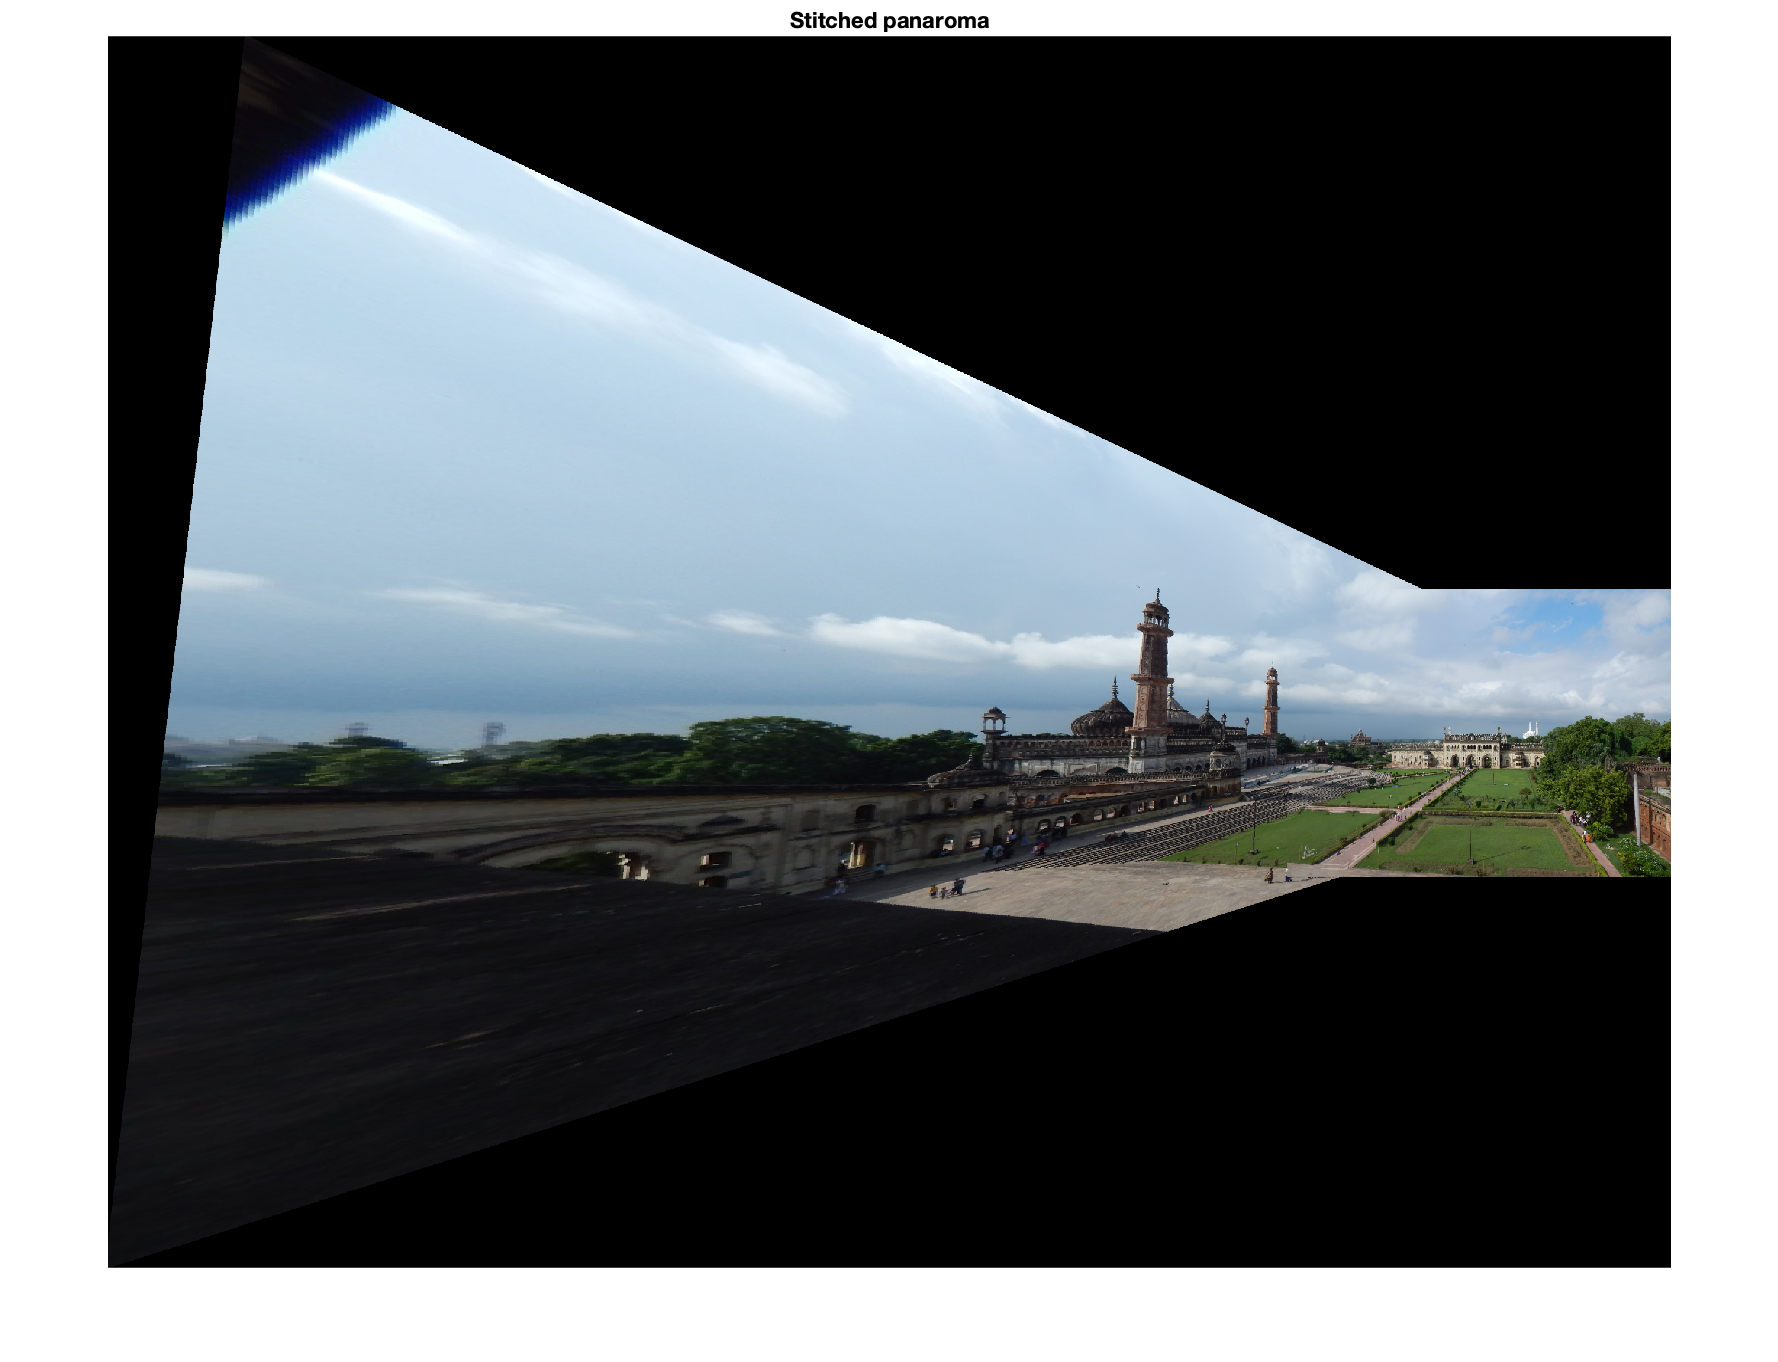
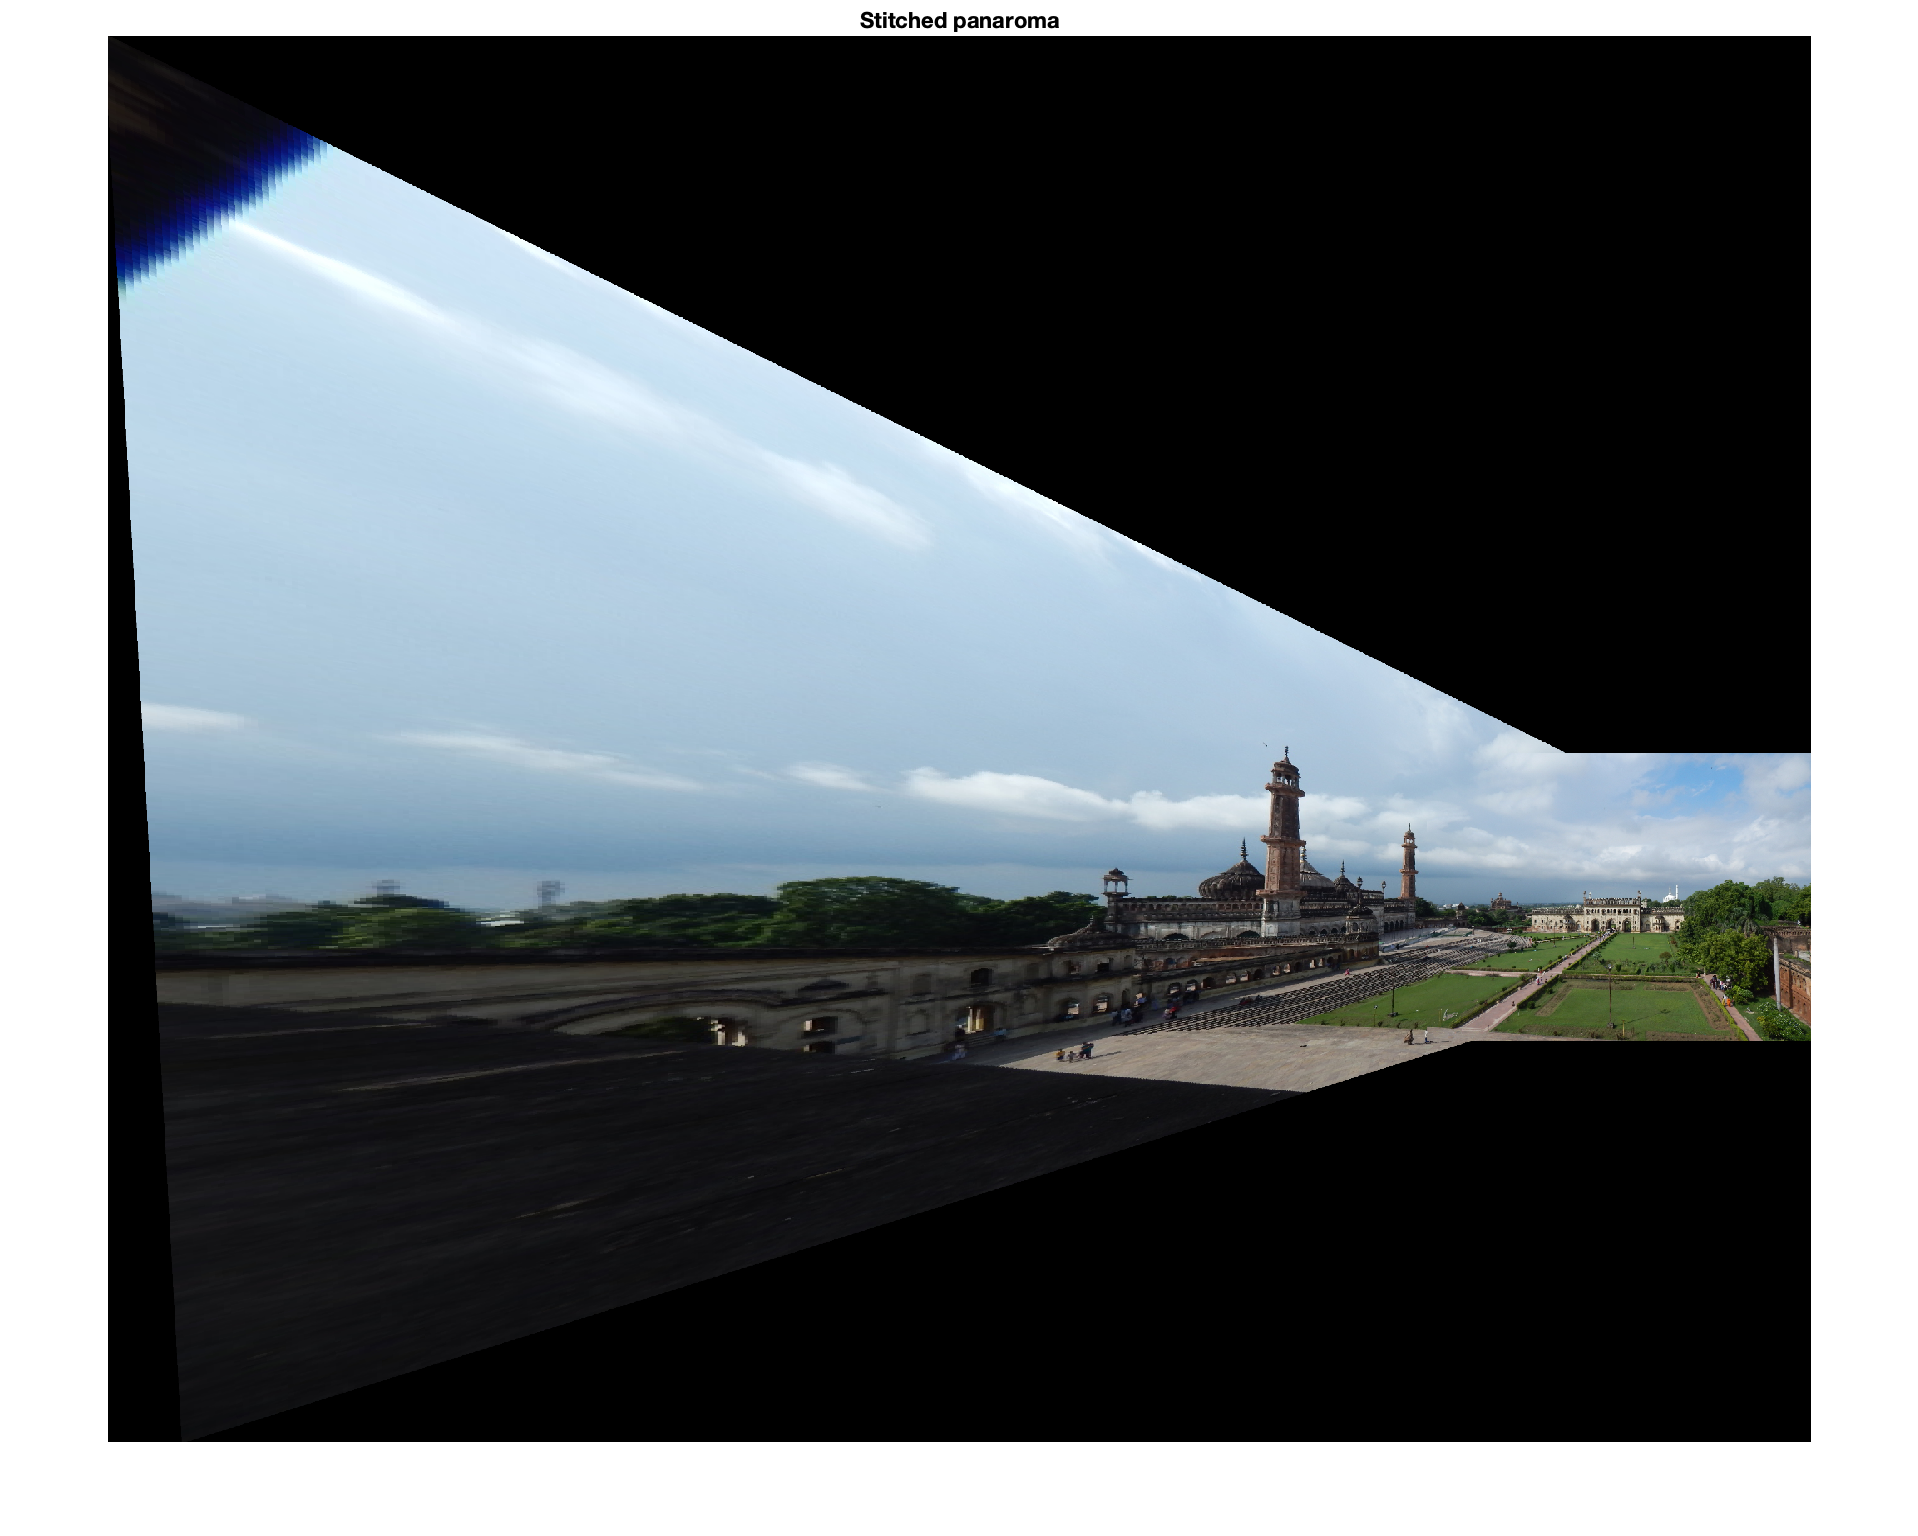
Q4: completed

Changed region(s): [[0.0309, 0.0308, 0.9589, 0.9559], [0.0619, 0.0, 0.928, 0.0308], [0.4021, 0.4317, 0.4331, 0.4626]]

diff --git a/A2/Q4/code/myMainScript.m b/A2/Q4/code/myMainScript.m
@@ -1,8 +1,8 @@
 rng(0);
 
-%% Loading and displaying the images (Monument)
-
-tic;
+%% Monument
+% Loading and displaying the images
+clear;
 base_dir = '../input/monument/';
 files = dir(strcat(base_dir,'*.jpg'));
 n = length(files);
@@ -14,15 +14,15 @@ for i=1:n
 end
 
 % Creating Panaroma
+tic;
 p_im = createPanaroma(im, 2, 0.05);
 toc;
 figure; imshow(p_im);
 title('Stitched panaroma');
+
+%% Hill
+% Loading and displaying the images
 clear;
-
-%% Loading and displaying the images (Hill)
-
-tic;
 base_dir = '../input/hill/';
 files = dir(strcat(base_dir,'*.jpg'));
 n = length(files);
@@ -34,15 +34,15 @@ for i=1:n
 end
 
 % Creating Panaroma
+tic;
 p_im = createPanaroma(im, 2, 0.005);
 toc;
 figure; imshow(p_im);
 title('Stitched panaroma');
+
+%% Ledge
+% Loading and displaying the images
 clear;
-
-%% Loading and displaying the images (Legde)
-
-tic;
 base_dir = '../input/ledge/';
 files = dir(strcat(base_dir,'*.jpg'));
 n = length(files);
@@ -54,15 +54,15 @@ for i=1:n
 end
 
 % Creating Panaroma
+tic;
 p_im = createPanaroma(im, 2, 0.005);
 toc;
 figure; imshow(p_im);
 title('Stitched panaroma');
+
+%% Pier
+% Loading and displaying the images
 clear;
-
-%% Loading and displaying the images (Pier)
-
-tic;
 base_dir = '../input/pier/';
 files = dir(strcat(base_dir,'*.jpg'));
 n = length(files);
@@ -74,8 +74,50 @@ for i=1:n
 end
 
 % Creating Panaroma
+tic;
 p_im = createPanaroma(im, 2, 0.005);
 toc;
 figure; imshow(p_im);
 title('Stitched panaroma');
+
+%% camera_2
+% Loading and displaying the images
 clear;
+base_dir = '../input/camera_2/';
+files = dir(strcat(base_dir,'*.jpg'));
+n = length(files);
+im = cell(1,n);
+for i=1:n
+    ii = imread(strcat(base_dir, files(i).name));
+    im{i} = ii(1:4:end,1:4:end,:); % downsample because images are too big
+    figure; imshow(im{i});
+    title(strcat('Original image -', string(i))); 
+end
+
+% Creating Panaroma
+tic;
+p_im = createPanaroma(im, 1, 5);
+toc;
+figure; imshow(p_im);
+title('Stitched panaroma');
+
+%% camera_3
+% Loading and displaying the images
+clear;
+base_dir = '../input/camera_3/';
+files = dir(strcat(base_dir,'*.jpg'));
+n = length(files);
+im = cell(1,n);
+for i=1:n
+    ii = imread(strcat(base_dir, files(i).name));
+    im{i} = ii(1:3:end,1:3:end,:); % downsample because images are too big
+    figure; imshow(im{i});
+    title(strcat('Original image -', string(i))); 
+end
+
+% Creating Panaroma
+tic;
+p_im = createPanaroma(im, 2, 5);
+toc;
+figure; imshow(p_im);
+title('Stitched panaroma');
